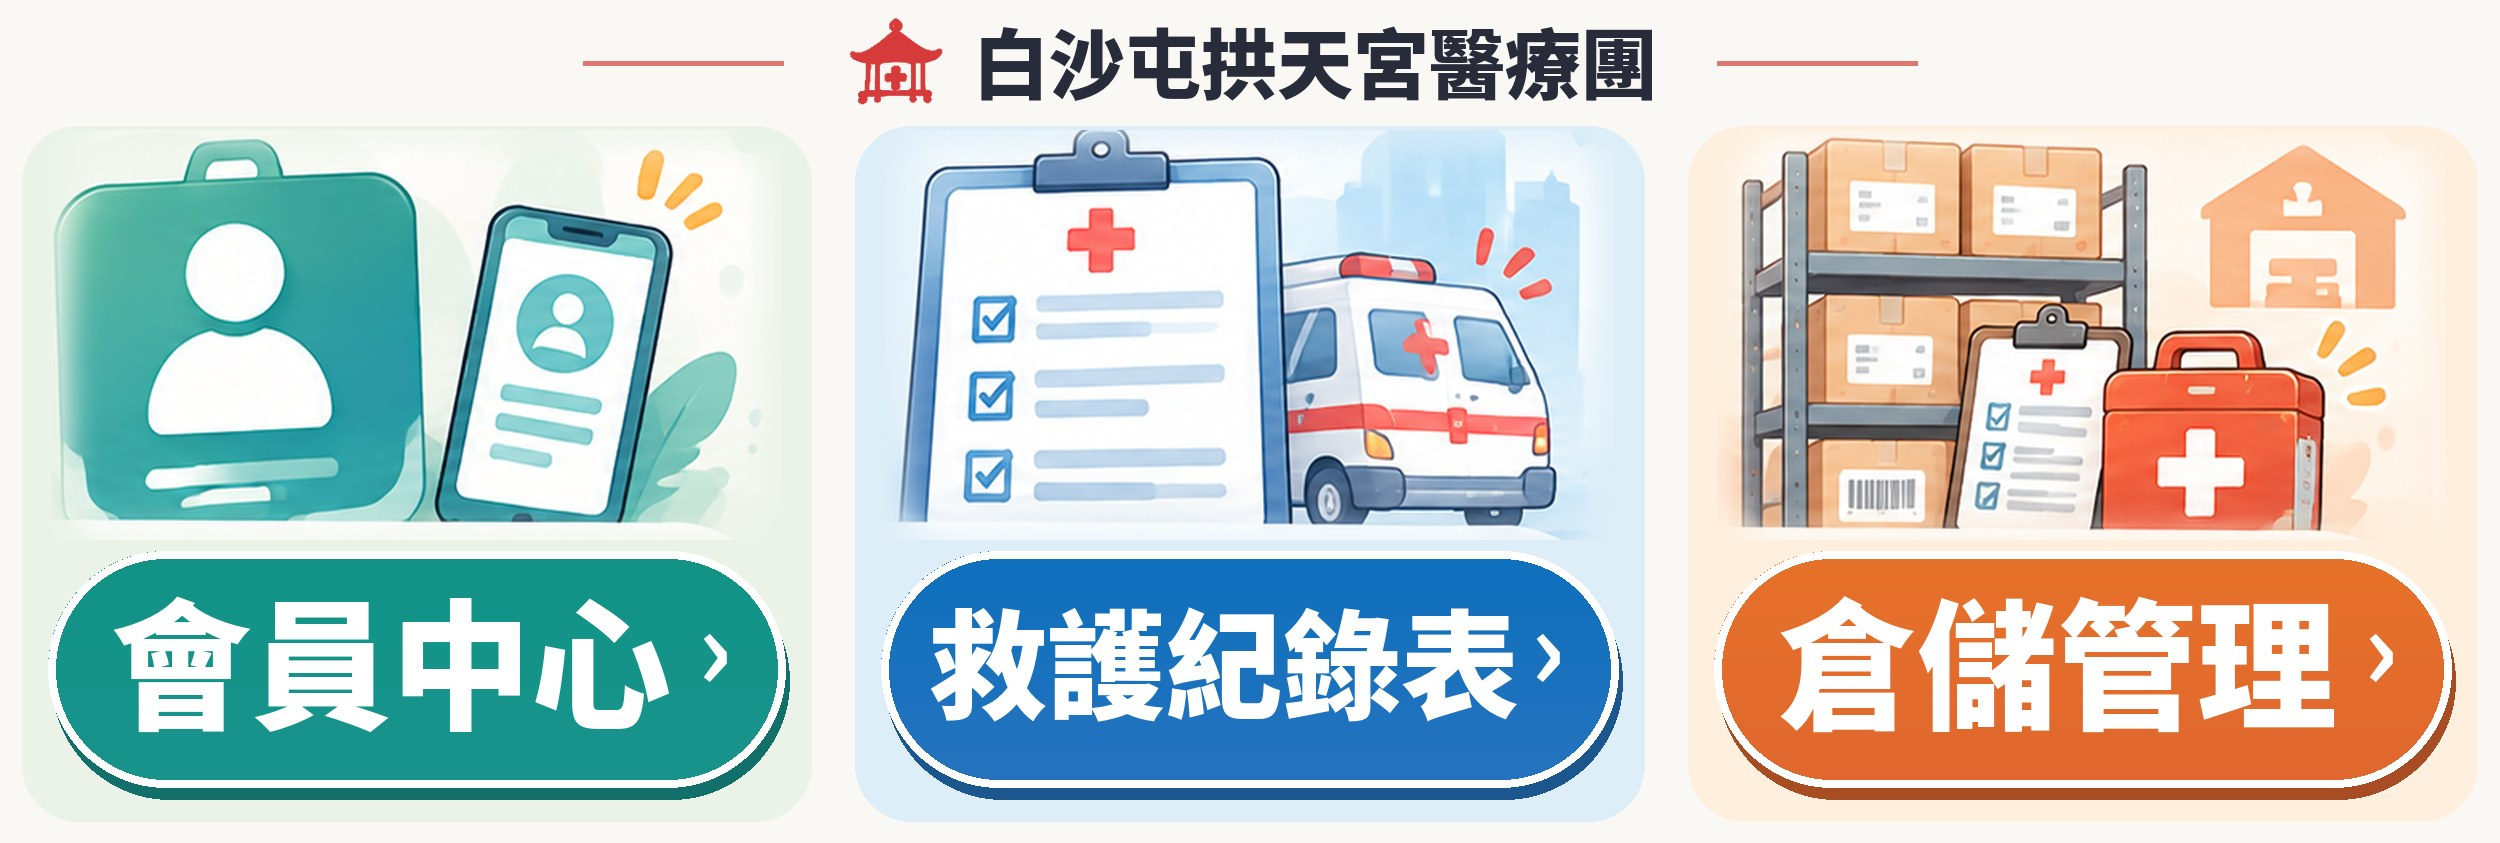
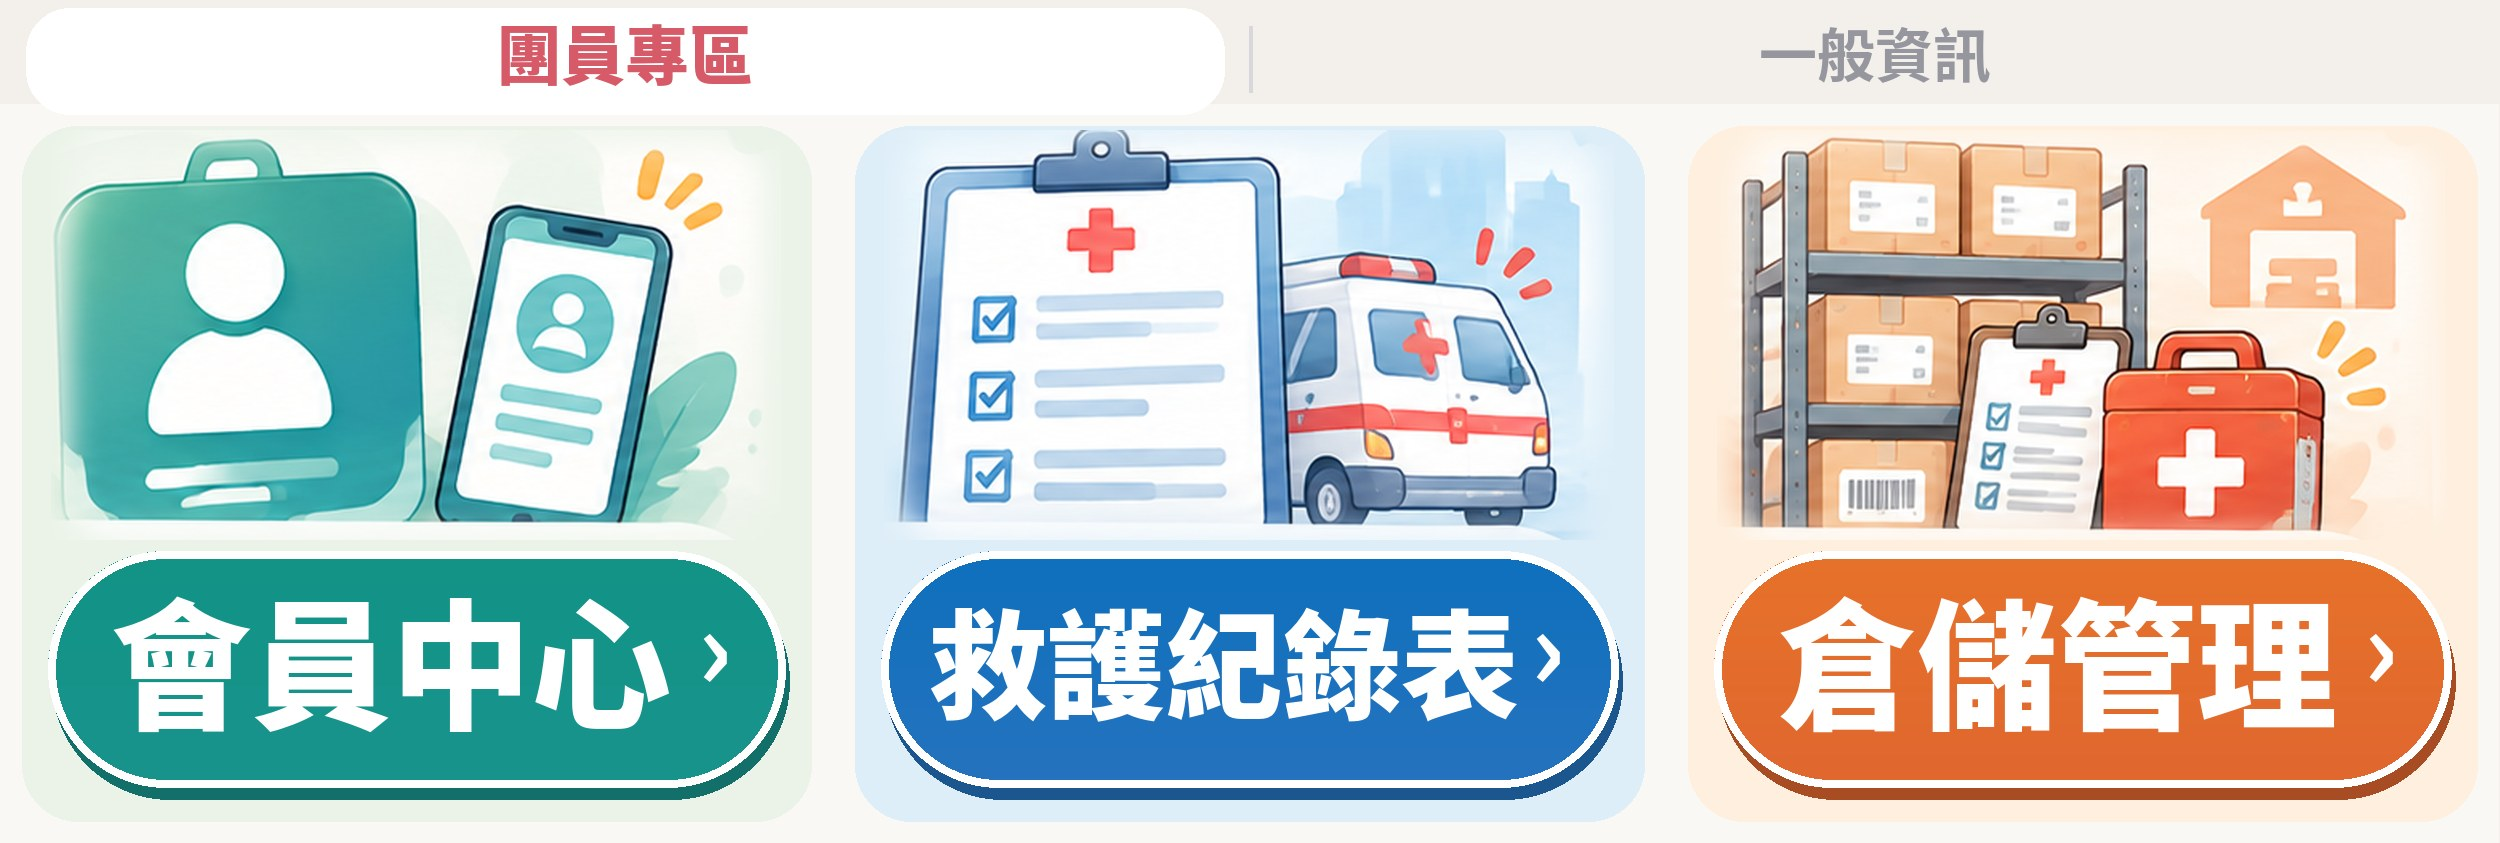
圖文選單改版：一般民眾三格；團員兩頁分頁切換（團員專區／一般資訊）
Claude-Session: https://claude.ai/code/session_01UgnuMUR9BFixKJirFzAXJh

Changed region(s): [[0.3432, 0.0308, 0.8112, 0.1234], [0.1872, 0.0308, 0.312, 0.1234]]

diff --git a/security/worker.js b/security/worker.js
@@ -109,17 +109,31 @@ async function parseRoute(req, env, json) {
 // 兩種選單：guest（預設，沒開通的人）、member（審核通過的團員）。用 alias 記住目前的選單 ID，不用另外存。
 const SITE = 'https://tsushin-buishatun.pages.dev';
 const LIFF = id => 'https://liff.line.me/' + id;
+// 圖片 2500×843。分頁式選單上方 104px 是分頁列（左：團員專區、右：一般資訊），下面三格按鈕
+const MW = 2500, MH = 843, TAB = 104;
+const cols3 = (acts, top) => acts.map((a, i) => {
+  const cw = Math.floor(MW / 3), x = i * cw;
+  return { bounds: { x, y: top, width: i === 2 ? MW - x : cw, height: MH - top }, action: a };
+});
+const tabs = () => [
+  { bounds: { x: 0, y: 0, width: MW / 2, height: TAB }, action: { type: 'richmenuswitch', richMenuAliasId: 'bst-member', data: 'tab=member' } },
+  { bounds: { x: MW / 2, y: 0, width: MW / 2, height: TAB }, action: { type: 'richmenuswitch', richMenuAliasId: 'bst-member-b', data: 'tab=public' } },
+];
+// 一般民眾也看得到的三格：按下去會在聊天室送出這句話，內容請在 LINE 官方帳號後台設定「關鍵字自動回應」
+const PUBLIC = [
+  { type: 'message', label: '認識醫療團', text: '認識醫療團' },
+  { type: 'message', label: '衛教須知', text: '衛教須知' },
+  { type: 'message', label: '聯絡管理員', text: '聯絡管理員' },
+];
+const MEMBER = [
+  { type: 'uri', label: '會員中心', uri: LIFF('2011820105-x1KU6xLW') },
+  { type: 'uri', label: '救護紀錄表', uri: LIFF('2011820105-6oXAxIEi') },
+  { type: 'uri', label: '倉儲管理', uri: LIFF('2011820105-ofRs4ehy') },
+];
 const MENUS = {
-  guest: { alias: 'bst-guest', name: '白沙屯醫護團｜訪客', img: 'guest.jpg', areas: [
-    { type: 'uri', label: '會員中心', uri: LIFF('2011820105-x1KU6xLW') },
-    { type: 'uri', label: '入團申請', uri: SITE + '/join/' },
-    { type: 'message', label: '聯絡管理員', text: '聯絡管理員' },
-  ] },
-  member: { alias: 'bst-member', name: '白沙屯醫護團｜團員', img: 'member.jpg', areas: [
-    { type: 'uri', label: '會員中心', uri: LIFF('2011820105-x1KU6xLW') },
-    { type: 'uri', label: '救護紀錄表', uri: LIFF('2011820105-6oXAxIEi') },
-    { type: 'uri', label: '倉儲管理', uri: LIFF('2011820105-ofRs4ehy') },
-  ] },
+  guest:   { alias: 'bst-guest',    name: '白沙屯醫護團｜一般民眾', img: 'guest.jpg',   areas: cols3(PUBLIC, 0) },
+  member:  { alias: 'bst-member',   name: '白沙屯醫護團｜團員專區', img: 'member.jpg',  areas: [...tabs(), ...cols3(MEMBER, TAB)] },
+  member2: { alias: 'bst-member-b', name: '白沙屯醫護團｜一般資訊', img: 'member2.jpg', areas: [...tabs(), ...cols3(PUBLIC, TAB)] },
 };
 const lineApi = (env, path, opt = {}) => fetch((opt.data ? 'https://api-data.line.me' : 'https://api.line.me') + path, {
   method: opt.method || 'GET',
@@ -171,13 +185,10 @@ async function menuSetupRoute(req, env, json) {
     const { idToken } = await req.json();
     const meDoc = await fsUser(idToken, uidOfToken(idToken));
     if (!meDoc || meDoc.status !== 'approved' || meDoc.role !== 'admin') return json({ error: 'admin only' }, 403);
-    const out = {};
+    // 1) 先把三個選單都建好、上傳圖片
+    const made = {};
     for (const [key, m] of Object.entries(MENUS)) {
-      const W = 2500, H = 843, cw = Math.floor(W / m.areas.length);
-      const body = {
-        size: { width: W, height: H }, selected: true, name: m.name, chatBarText: '選單',
-        areas: m.areas.map((a, i) => ({ bounds: { x: i * cw, y: 0, width: i === m.areas.length - 1 ? W - i * cw : cw, height: H }, action: a })),
-      };
+      const body = { size: { width: MW, height: MH }, selected: true, name: m.name, chatBarText: '選單', areas: m.areas };
       const c = await lineApi(env, '/v2/bot/richmenu', { method: 'POST', type: 'application/json', body: JSON.stringify(body) });
       if (!c.ok) return json({ error: `建立 ${key} 失敗：` + await c.text() }, 502);
       const id = (await c.json()).richMenuId;
@@ -185,17 +196,23 @@ async function menuSetupRoute(req, env, json) {
       if (!img.ok) return json({ error: `讀不到 ${m.img}` }, 502);
       const up = await lineApi(env, `/v2/bot/richmenu/${id}/content`, { method: 'POST', data: true, type: m.img.endsWith('.jpg') ? 'image/jpeg' : 'image/png', body: await img.arrayBuffer() });
       if (!up.ok) return json({ error: `上傳 ${key} 圖片失敗：` + await up.text() }, 502);
-      // alias 指到新選單，再刪掉舊的
+      made[key] = id;
+    }
+    // 2) 別名指到新選單（分頁切換靠別名），訪客選單設為預設，最後刪掉舊選單
+    const out = {}, olds = [];
+    for (const [key, m] of Object.entries(MENUS)) {
+      const id = made[key];
       const old = await lineApi(env, '/v2/bot/richmenu/alias/' + m.alias);
       const oldId = old.ok ? (await old.json()).richMenuId : null;
       const al = oldId
         ? await lineApi(env, '/v2/bot/richmenu/alias/' + m.alias, { method: 'POST', type: 'application/json', body: JSON.stringify({ richMenuId: id }) })
         : await lineApi(env, '/v2/bot/richmenu/alias', { method: 'POST', type: 'application/json', body: JSON.stringify({ richMenuAliasId: m.alias, richMenuId: id }) });
       if (!al.ok) return json({ error: `設定 ${key} 別名失敗：` + await al.text() }, 502);
-      if (key === 'guest') await lineApi(env, '/v2/bot/user/all/richmenu/' + id, { method: 'POST' });
-      if (oldId && oldId !== id) await lineApi(env, '/v2/bot/richmenu/' + oldId, { method: 'DELETE' });
+      if (oldId && oldId !== id) olds.push(oldId);
       out[key] = id;
     }
+    await lineApi(env, '/v2/bot/user/all/richmenu/' + made.guest, { method: 'POST' });
+    for (const id of olds) await lineApi(env, '/v2/bot/richmenu/' + id, { method: 'DELETE' });
     return json({ ok: true, menus: out });
   } catch (e) {
     return json({ error: String((e && e.message) || e) }, e && e.code || 500);

diff --git a/member/index.html b/member/index.html
@@ -1651,7 +1651,7 @@
   // 發佈 LINE 圖文選單（只有最高管理員）：建立訪客／團員兩種選單，再把所有已開通的人換成團員選單
   $('btn-richmenu').onclick = async () => {
     if (!user || user.role !== 'admin') return toast('只有最高管理員（全部系統）可以發佈');
-    const ok = await dialog({ title: '發佈 LINE 圖文選單？', msg: '會建立「訪客」「團員」兩種選單：\n・還沒開通的人看到：會員中心／入團申請／聯絡管理員\n・已開通的團員看到：會員中心／救護紀錄表／倉儲管理\n\n之後審核、停權、踢出都會自動切換。', okText: '發佈' });
+    const ok = await dialog({ title: '發佈 LINE 圖文選單？', msg: '會建立 LINE 圖文選單：\n・一般民眾：認識醫療團／衛教須知／聯絡管理員\n・團員：兩頁可左右切換\n　「團員專區」會員中心／救護紀錄表／倉儲管理\n　「一般資訊」同一般民眾那頁\n\n之後審核、停權、踢出都會自動切換。', okText: '發佈' });
     if (!ok) return;
     const btn = $('btn-richmenu'); btn.disabled = true; btn.textContent = '發佈中…';
     try {
